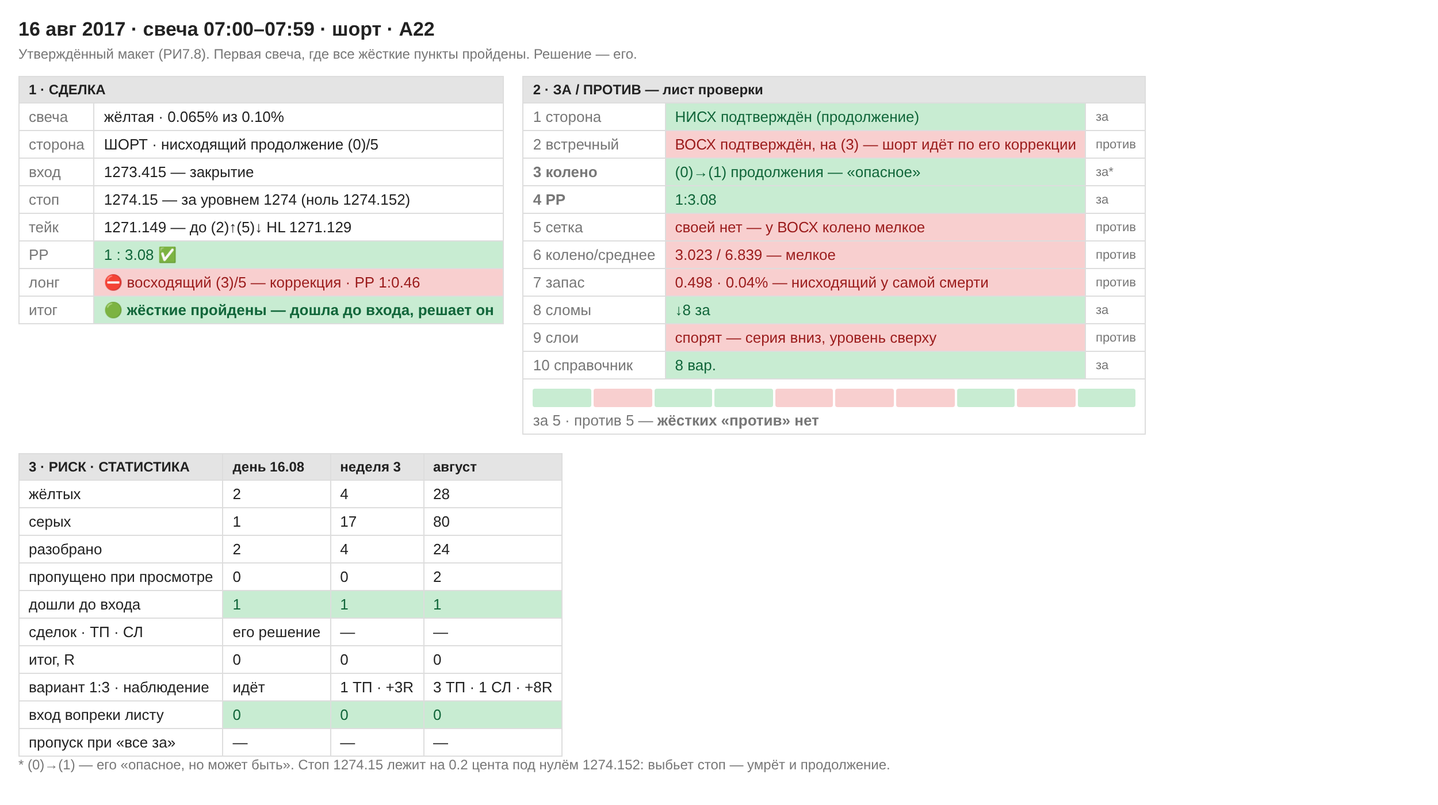
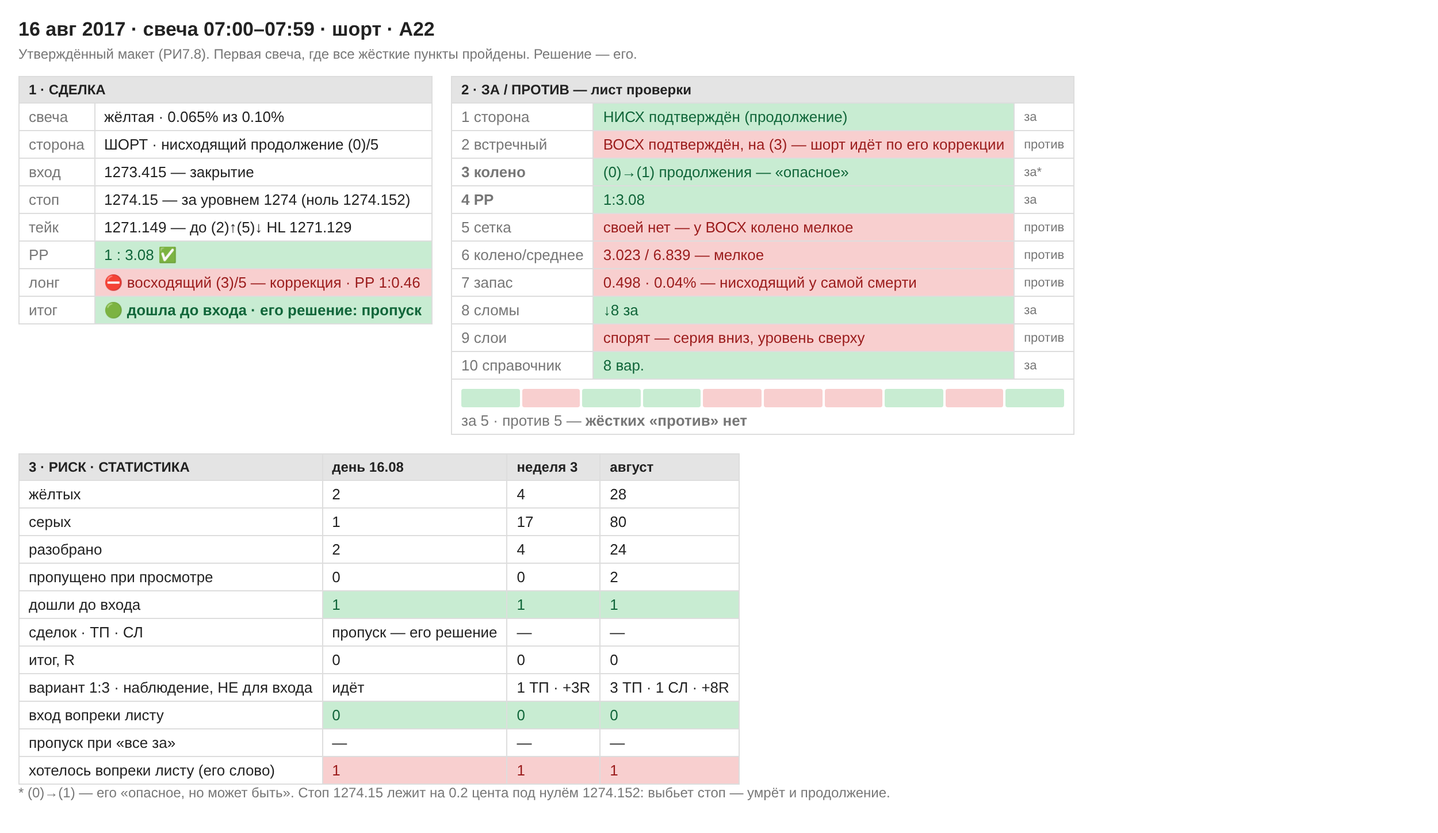
А22: его решение — пропуск; тянуло в лонг вопреки листу, остановил лист; В36 — наблюдение, не правило входа
Claude-Session: https://claude.ai/code/session_01TnuyYeu48W8E686G1zottP

Changed region(s): [[0.0, 0.0307, 0.8112, 0.9521]]

diff --git a/research/out/maket/2017-08-16_0700.html b/research/out/maket/2017-08-16_0700.html
@@ -6,4 +6,4 @@ table{border-collapse:collapse;min-width:360px}td,th{border:1px solid var(--ln);
 th{background:var(--h);font-size:12px}.blk td:first-child{color:var(--mut);white-space:nowrap}
 .g{background:var(--g);color:var(--gt)}.r{background:var(--r);color:var(--rt)}.n{background:var(--n);color:var(--mut)}
 .hard{font-weight:bold}.tag{font-size:11px;color:var(--mut)}
-.bar{display:flex;gap:2px;margin:4px 0}.bar span{flex:1;height:16px;border-radius:2px}</style></head><body><h1>16 авг 2017 · свеча 07:00–07:59 · шорт · А22</h1><p class="sub">Утверждённый макет (РИ7.8). Первая свеча, где все жёсткие пункты пройдены. Решение — его.</p><div class="wrap"><table class="blk"><tr><th colspan="2">1 · СДЕЛКА</th></tr><tr><td>свеча</td><td class="">жёлтая · 0.065% из 0.10%</td></tr><tr><td>сторона</td><td class="">ШОРТ · нисходящий продолжение (0)/5</td></tr><tr><td>вход</td><td class="">1273.415 — закрытие</td></tr><tr><td>стоп</td><td class="">1274.15 — за уровнем 1274 (ноль 1274.152)</td></tr><tr><td>тейк</td><td class="">1271.149 — до (2)↑(5)↓ HL 1271.129</td></tr><tr><td>РР</td><td class="g">1 : 3.08 ✅</td></tr><tr><td>лонг</td><td class="r">⛔ восходящий (3)/5 — коррекция · РР 1:0.46</td></tr><tr><td>итог</td><td class="g hard">🟢 жёсткие пройдены — дошла до входа, решает он</td></tr></table><table class="blk"><tr><th colspan="3">2 · ЗА / ПРОТИВ — лист проверки</th></tr><tr><td class="">1 сторона</td><td class="g">НИСХ подтверждён (продолжение)</td><td class="tag">за</td></tr><tr><td class="">2 встречный</td><td class="r">ВОСХ подтверждён, на (3) — шорт идёт по его коррекции</td><td class="tag">против</td></tr><tr><td class="hard">3 колено</td><td class="g">(0)→(1) продолжения — «опасное»</td><td class="tag">за*</td></tr><tr><td class="hard">4 РР</td><td class="g">1:3.08</td><td class="tag">за</td></tr><tr><td class="">5 сетка</td><td class="r">своей нет — у ВОСХ колено мелкое</td><td class="tag">против</td></tr><tr><td class="">6 колено/среднее</td><td class="r">3.023 / 6.839 — мелкое</td><td class="tag">против</td></tr><tr><td class="">7 запас</td><td class="r">0.498 · 0.04% — нисходящий у самой смерти</td><td class="tag">против</td></tr><tr><td class="">8 сломы</td><td class="g">↓8 за</td><td class="tag">за</td></tr><tr><td class="">9 слои</td><td class="r">спорят — серия вниз, уровень сверху</td><td class="tag">против</td></tr><tr><td class="">10 справочник</td><td class="g">8 вар.</td><td class="tag">за</td></tr><tr><td colspan="3"><div class="bar"><span class="g"></span><span class="r"></span><span class="g"></span><span class="g"></span><span class="r"></span><span class="r"></span><span class="r"></span><span class="g"></span><span class="r"></span><span class="g"></span></div>за 5 · против 5 — <b>жёстких «против» нет</b></td></tr></table><table><tr><th>3 · РИСК · СТАТИСТИКА</th><th>день 16.08</th><th>неделя 3</th><th>август</th></tr><tr><td>жёлтых</td><td class="">2</td><td class="">4</td><td class="">28</td></tr><tr><td>серых</td><td class="">1</td><td class="">17</td><td class="">80</td></tr><tr><td>разобрано</td><td class="">2</td><td class="">4</td><td class="">24</td></tr><tr><td>пропущено при просмотре</td><td class="">0</td><td class="">0</td><td class="">2</td></tr><tr><td>дошли до входа</td><td class="g">1</td><td class="g">1</td><td class="g">1</td></tr><tr><td>сделок · ТП · СЛ</td><td class="">его решение</td><td class="">—</td><td class="">—</td></tr><tr><td>итог, R</td><td class="">0</td><td class="">0</td><td class="">0</td></tr><tr><td>вариант 1:3 · наблюдение</td><td class="">идёт</td><td class="">1 ТП · +3R</td><td class="">3 ТП · 1 СЛ · +8R</td></tr><tr><td>вход вопреки листу</td><td class="g">0</td><td class="g">0</td><td class="g">0</td></tr><tr><td>пропуск при «все за»</td><td class="">—</td><td class="">—</td><td class="">—</td></tr></table></div><p class="sub">* (0)→(1) — его «опасное, но может быть». Стоп 1274.15 лежит на 0.2 цента под нулём 1274.152: выбьет стоп — умрёт и продолжение.</p></body></html>
+.bar{display:flex;gap:2px;margin:4px 0}.bar span{flex:1;height:16px;border-radius:2px}</style></head><body><h1>16 авг 2017 · свеча 07:00–07:59 · шорт · А22</h1><p class="sub">Утверждённый макет (РИ7.8). Первая свеча, где все жёсткие пункты пройдены. Решение — его.</p><div class="wrap"><table class="blk"><tr><th colspan="2">1 · СДЕЛКА</th></tr><tr><td>свеча</td><td class="">жёлтая · 0.065% из 0.10%</td></tr><tr><td>сторона</td><td class="">ШОРТ · нисходящий продолжение (0)/5</td></tr><tr><td>вход</td><td class="">1273.415 — закрытие</td></tr><tr><td>стоп</td><td class="">1274.15 — за уровнем 1274 (ноль 1274.152)</td></tr><tr><td>тейк</td><td class="">1271.149 — до (2)↑(5)↓ HL 1271.129</td></tr><tr><td>РР</td><td class="g">1 : 3.08 ✅</td></tr><tr><td>лонг</td><td class="r">⛔ восходящий (3)/5 — коррекция · РР 1:0.46</td></tr><tr><td>итог</td><td class="g hard">🟢 дошла до входа · его решение: пропуск</td></tr></table><table class="blk"><tr><th colspan="3">2 · ЗА / ПРОТИВ — лист проверки</th></tr><tr><td class="">1 сторона</td><td class="g">НИСХ подтверждён (продолжение)</td><td class="tag">за</td></tr><tr><td class="">2 встречный</td><td class="r">ВОСХ подтверждён, на (3) — шорт идёт по его коррекции</td><td class="tag">против</td></tr><tr><td class="hard">3 колено</td><td class="g">(0)→(1) продолжения — «опасное»</td><td class="tag">за*</td></tr><tr><td class="hard">4 РР</td><td class="g">1:3.08</td><td class="tag">за</td></tr><tr><td class="">5 сетка</td><td class="r">своей нет — у ВОСХ колено мелкое</td><td class="tag">против</td></tr><tr><td class="">6 колено/среднее</td><td class="r">3.023 / 6.839 — мелкое</td><td class="tag">против</td></tr><tr><td class="">7 запас</td><td class="r">0.498 · 0.04% — нисходящий у самой смерти</td><td class="tag">против</td></tr><tr><td class="">8 сломы</td><td class="g">↓8 за</td><td class="tag">за</td></tr><tr><td class="">9 слои</td><td class="r">спорят — серия вниз, уровень сверху</td><td class="tag">против</td></tr><tr><td class="">10 справочник</td><td class="g">8 вар.</td><td class="tag">за</td></tr><tr><td colspan="3"><div class="bar"><span class="g"></span><span class="r"></span><span class="g"></span><span class="g"></span><span class="r"></span><span class="r"></span><span class="r"></span><span class="g"></span><span class="r"></span><span class="g"></span></div>за 5 · против 5 — <b>жёстких «против» нет</b></td></tr></table><table><tr><th>3 · РИСК · СТАТИСТИКА</th><th>день 16.08</th><th>неделя 3</th><th>август</th></tr><tr><td>жёлтых</td><td class="">2</td><td class="">4</td><td class="">28</td></tr><tr><td>серых</td><td class="">1</td><td class="">17</td><td class="">80</td></tr><tr><td>разобрано</td><td class="">2</td><td class="">4</td><td class="">24</td></tr><tr><td>пропущено при просмотре</td><td class="">0</td><td class="">0</td><td class="">2</td></tr><tr><td>дошли до входа</td><td class="g">1</td><td class="g">1</td><td class="g">1</td></tr><tr><td>сделок · ТП · СЛ</td><td class="">пропуск — его решение</td><td class="">—</td><td class="">—</td></tr><tr><td>итог, R</td><td class="">0</td><td class="">0</td><td class="">0</td></tr><tr><td>вариант 1:3 · наблюдение, НЕ для входа</td><td class="">идёт</td><td class="">1 ТП · +3R</td><td class="">3 ТП · 1 СЛ · +8R</td></tr><tr><td>вход вопреки листу</td><td class="g">0</td><td class="g">0</td><td class="g">0</td></tr><tr><td>пропуск при «все за»</td><td class="">—</td><td class="">—</td><td class="">—</td></tr><tr><td>хотелось вопреки листу (его слово)</td><td class="r">1</td><td class="r">1</td><td class="r">1</td></tr></table></div><p class="sub">* (0)→(1) — его «опасное, но может быть». Стоп 1274.15 лежит на 0.2 цента под нулём 1274.152: выбьет стоп — умрёт и продолжение.</p></body></html>

diff --git a/indicator/ПРОВЕРИТЬ.md b/indicator/ПРОВЕРИТЬ.md
@@ -41,7 +41,7 @@
 | **В33** | **ПОРОГ РР: 1:3 — ЭТО ПОРОГ ИЛИ ОРИЕНТИР?** Его слово 10.11.2026, запись А6: «РР к нему должен быть 1:3 если меньще сделка пропускается». В разобранном случае шорт дал **1:2.51** и был пропущен. **Померить: что даёт порог 1:3 против 1:2.5 и 1:2** на одних и тех же сделках — сколько сделок теряется и какова надбавка. ⚠ Вопрос ставится ТОЛЬКО потому, что он сам в А3 допустил 1:2 для коррекций; **своего предложения снизить порог у меня нет** | А6, РИ2.4, В31 | ⬜ **ВХОД НАЗВАН 11.11.2026 — «по закрытию свечи»**, значит число РР теперь воспроизводится: в А6 это 1:2.51. Замер НЕ заказан — те же причины, что у В32 |
 | **В34** | ⭐ **«ВОЗМОЖЕН» — ЛОЖНЫЙ ИЛИ НАСТОЯЩИЙ ПО ТОМУ, ГДЕ СТОИТ СЧЁТ ВСТРЕЧНОГО.** Его слово 12.11.2026, запись А15: на коррекции `(1)→(2)` или `(3)→(4)` основного тренда «возможен» встречный — скорее шум, «вершина 1 и 3 должна пробиваться»; «сразу после счёта 5» — уже кандидат. **Померить:** судьба «возможен» тренда в зависимости от места счёта встречного в момент его рождения. ⚠ **Параметры НЕ согласованы:** (1) что считать исходом — подтвердился ли «возможен» / пробила ли основная следующая вершина предыдущую / сделка по его правилам; (2) «после (5)» — сразу или когда угодно позже, и считать ли «конец» на (4) с манипуляцией, как 8 августа; (3) рождение и продолжение — вместе или порознь. Признак брать **таким, каким он был виден в момент** (урок Н49–Н50) | А15, А3, Н50 | ⬜ **ЖДЁТ ЕГО СЛОВА О ПАРАМЕТРАХ.** Он сам: «будем собирать данные посмотрим» — копим случаи с графика, замер не запускается до согласования (правило 1) |
 | **В35** | ⭐ **КАК ЧАСТО БЛЕДНАЯ ВЕРШИНА 2/2 УСТОИТ.** Его слово 16.11.2026 «да, давай посчитаем», замечание **З78**. Бледная метка — через ОДИН бар после крайней точки, сплошная — через два, как сейчас (его «да»). **Померить:** из бледных меток с номером счёта — сколько стали сплошными на той же свече, а у не устоявших — куда и на сколько уехала метка. ⚠ **Параметры выложены 16.11, ждут его ответа:** данные · какие метки считать · что считать «устояла» · что писать про перескок · разрезы. Это частота, а НЕ доход сделки: доход требует блока входа | З78, З77, А16 | ⏸ **ОТЛОЖЕН 16.11.2026** его вопросом «что мне даст этот замер?». Отвечает на «насколько верить бледной при входе», а не на «вносить ли». Не отменён, ждёт его слова |
-| **В36** | ⭐ **ВХОД «ЧЁТКО 1:3», КОГДА ДО ВЕРШИНЫ 1:3 НЕТ.** Его слово 16.11.2026: «если допустим все показатели говорят лонг\или шорт но к вершине нет 1:3 выставлять вход четко 1:3 и посмотрим что будет, есть ли смысл так делать». **Копим случаи с графика** в `ТАБЛО-НА-СВЕЧЕ.md`, раздел 6. ✅ **Уточнено его словом 16.11:** «вход всегда по рынку. ставится дальше тейк чтобы было 1:3» — вход по закрытию, стоп как всегда, тейк = вход + 3 × риск. ⚠ **Не согласовано:** что считать «все показатели за». Первые случаи — 9 авг 07:00 (тейк 1:3 взят), 08:00 (идёт). Это не замер: исход по данным, а не доход стратегии | А17, ТС8.10 | ⬜ **КОПИМ**, параметры спрошены |
+| **В36** | ⭐ **ВХОД «ЧЁТКО 1:3», КОГДА ДО ВЕРШИНЫ 1:3 НЕТ.** Его слово 16.11.2026: «если допустим все показатели говорят лонг\или шорт но к вершине нет 1:3 выставлять вход четко 1:3 и посмотрим что будет, есть ли смысл так делать». **Копим случаи с графика** в `ТАБЛО-НА-СВЕЧЕ.md`, раздел 6. ✅ **Уточнено его словом 16.11:** «вход всегда по рынку. ставится дальше тейк чтобы было 1:3» — вход по закрытию, стоп как всегда, тейк = вход + 3 × риск. ⚠ **Не согласовано:** что считать «все показатели за». Первые случаи — 9 авг 07:00 (тейк 1:3 взят), 08:00 (идёт). Это не замер: исход по данным, а не доход стратегии ⚠ **18.11 (А22): наблюдение стало в голове «вторым правилом входа»** — он хотел войти в лонг по 1:3 вопреки листу. В36 — НЕ правило входа, подписывать так везде | А17, А22, ТС8.10 | ⬜ **КОПИМ**, параметры спрошены |
 | **В37** | **ДВА ПОДТВЕРЖДЁННЫХ ТРЕНДА С ПОЧТИ РАВНЫМ ЗАПАСОМ — ЖДАТЬ.** Его наблюдение 17.11.2026, «ещё нет подтверждения»: «отображается в таблице два тренда подтверждённых и в строке запас 0.2 у них ± одинаковое значение — тогда лучше подождать ситуацию, где скажем восходящий будет явно сильнее или наоборот. но нужно не забывать про другие показатели табло». **Копим случаи с графика.** Не согласовано: что такое «± одинаково» — разница в процентах или в долях колена. **Случай 1 — 16 авг 06:00 (А21):** 0.27% и 0.27%, 3.408 и 3.474 | А19, А21, лист проверки п.7 | ⬜ **КОПИМ**, 1 случай |
 | **В21** | УРОВЕНЬ со вставками против чистого: ближе ли, меньше ли отдаёт, не выбивает ли зря | СИТ5 | **СЛЕДУЮЩИЙ на очереди**, параметры выложены, ждёт окончания С5 |
 | **В20** | как часто вставка из хвоста исчезает после подтверждения колена | СИТ1 | ИЗМЕРЕНО 29.09 → Н19: столкновений 0.6–0.7% ног |

diff --git a/indicator/КАК-ТОРГУЮ.md b/indicator/КАК-ТОРГУЮ.md
@@ -3303,3 +3303,33 @@ bgcolor(srez …)   — срезана размером, тёмная
 тренд ошибаются вместе, а не по отдельности.
 
 Исход — когда он пройдёт дальше. **Макет:** `research/out/maket/2017-08-16_0700.png`.
+
+#### ⭐ ЕГО РЕШЕНИЕ И ЕГО ЧЕСТНОСТЬ — 18.11.2026
+
+> «отвечу максимально честно. То, как ты расписал сделку в шорт, даже
+> лучше, чем я. В шорт не смог бы открыть — пока не знаю, правильно это
+> или нет. Видишь, очень много зависит от эмоций, которые нужно
+> искоренить. Честно все против лонга, но эмоционально хотел зайти в
+> лонг 1:3 не по правилам, а по второму правилу, когда нет 1:3 по
+> правилам. запутался. отвечу так: пропуск, но без индикатора — лонг».
+
+| | |
+|---|---|
+| **решение** | **пропуск обе стороны** |
+| шорт | дошёл до входа по жёстким пунктам — **он бы не открыл**, «пока не знаю, правильно это или нет». Это его право: доводы 5:5, голоса не считаются (ТС8.9) |
+| лонг | ⭐ **хотелось войти вопреки листу** — у лонга два жёстких «против» (коррекция `(3)→(4)`, РР 1:0.46). **Остановил лист, а не он сам:** «без индикатора — лонг» |
+| «второе правило» | ⚠ **это не правило.** Вариант 1:3 (В36) — **наблюдение**, которое мы записываем, чтобы потом посмотреть, «есть ли смысл так делать», — его же слова 16.11. Входа по нему нет. И он задуман для случая «всё за, кроме РР», а здесь у лонга против колено |
+
+**ПЕРВЫЙ ЗАПИСАННЫЙ СЛУЧАЙ, ГДЕ ИНДИКАТОР ОСТАНОВИЛ ЭМОЦИОНАЛЬНУЮ СДЕЛКУ.**
+Его словами, без подсказки. Это и есть задача блока риска (РИ1.2):
+«отмена эмоционального трейдинга».
+
+**Чему это учит — мой вывод, не правило.** Наблюдение, которое мы копим
+«посмотреть, есть ли смысл», в голове за два дня превратилось во «второе
+правило входа». Значит в отчёте наблюдения должны стоять **отдельно от
+правил и подписаны «не для входа»** — иначе они начинают работать как
+лазейка. ❓ Спрошено.
+
+❓ **Ещё один вопрос:** завести в части Д строку **«хотелось войти
+вопреки листу»** — её заполняет он сам, честно, как сейчас? Индикатор
+такого не посчитает, а для эмоций это самое прямое число.

diff --git a/indicator/ТАБЛО-НА-СВЕЧЕ.md b/indicator/ТАБЛО-НА-СВЕЧЕ.md
@@ -34,7 +34,7 @@
 | 14 авг 05:00 | А19 | скрин | возможен / **НИСХ** | (1)·(2) предв. / (2)·(3) предв. | ↑ чистый, ↓1 ПРОТИВ · ↓ чистый, ↓1 за | спорят | ↑ 0.47% · ↓ 0.42% | 10.998 / 7.350 | НИСХ `(0)→(1)`, отменена · у ВОСХ было бы на 0,382 (З79) | лонг 1:4.0 | пропуск: восх родился на коррекции нисх (А15) | **стоп** в 07:00 — пропуск уберёг |
 | 15 авг 11:00 | А20 | скрин | умер / **НИСХ** | — / (1)·(2) предв. | ↓ чистый, ↓7 за | согласны | 0.8% | 13.224 / 8.004 | НИСХ `(0)→(1)`, 0.186 — между | шорт 1:1.90 | пропуск: РР, сетка | **тейк** в 15:00 — упущена |
 | 16 авг 06:00 | А21 | скрин | **ВОСХ** / **НИСХ** | (2)·(3) предв. / **(5)** | ↑ чистый, ↓8 ПРОТИВ · ↓ чистый, ↓8 за | согласны (вниз) | 0.27% = 0.27% | 4.047 / 7.295 | НИСХ `(4)→(5)`, 0.482 — между | лонг 1:1.69 · шорт 1:1.80 | пропуск: лонг — колено, РР; шорт — (5) | — идёт |
-| 16 авг 07:00 | А22 | скрин | ВОСХ / **НИСХ** | (3) / **(0)** продолж. | ↑ чистый, ↓8 ПРОТИВ · ↓ чистый, ↓8 за | спорят | ↓ 0.04% | 3.023 / 6.839 | у ВОСХ колено мелкое — сетки нет | **шорт 1:3.08 ✅** | ⭐ **дошла до входа** — жёсткие пройдены, доводы 5:5, решение его | — идёт |
+| 16 авг 07:00 | А22 | скрин | ВОСХ / **НИСХ** | (3) / **(0)** продолж. | ↑ чистый, ↓8 ПРОТИВ · ↓ чистый, ↓8 за | спорят | ↓ 0.04% | 3.023 / 6.839 | у ВОСХ колено мелкое — сетки нет | **шорт 1:3.08 ✅** | ⭐ **дошла до входа** · его решение — **пропуск** («в шорт не смог бы»); тянуло в лонг вопреки листу — остановил лист | — идёт |
 
 ⚠ **8 авг 03:00 — табло на бар позади.** На закрытии свечи было уже
 **(2)** и **ВОСХ**; на графике он видел (1) и «возможен» — З77, починено в
